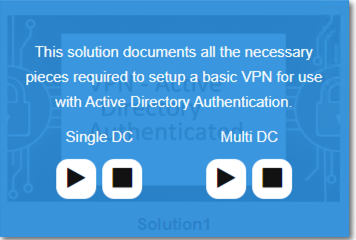
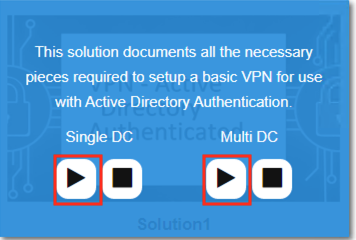
deploy update

Changed region(s): [[0.1236, 0.6417, 0.309, 0.875], [0.5562, 0.6417, 0.7107, 0.875]]

diff --git a/environment/deploy.rst b/environment/deploy.rst
@@ -38,9 +38,16 @@ Host, where you will be able to access the BIG-IP management interfaces (HTTPS, 
 |                                                                                                      |
 |    ..note::  Wait 15 seconds and the screen should refresh with the status of the automations        |
 |              deployment                                                                              |
-|                                                                                                      |  
++------------------------------------------------------------------------------------------------------+        
+|   |image19|                                                                                          |
++------------------------------------------------------------------------------------------------------+
+
++------------------------------------------------------------------------------------------------------+                                                                                                     |  
 | 5. The accompanying solution guide will provide details on how to access the application             |
 |    that was just deployed.                                                                           |    
++------------------------------------------------------------------------------------------------------+
+
++------------------------------------------------------------------------------------------------------+
 |                                                                                                      |
 | 6. Once you are done working in that solution return to https://portal.f5lab.local and click         |
 |    the **stop** to delete everything related to that solution                                        |
@@ -48,7 +55,7 @@ Host, where you will be able to access the BIG-IP management interfaces (HTTPS, 
 |    ..note:: Multiple solutions can be deployed at one time.                                          |
 |             The automation will dynamically assign addresses                                         |                                               
 |                                                                                                      |
-|                                                                                                      |
+|  |image20|                                                                                               |
 |                                                                                                      |
 +------------------------------------------------------------------------------------------------------+
 | Note: All work for this lab will be performed exclusively from the provided lab environment.         |
@@ -59,3 +66,5 @@ Host, where you will be able to access the BIG-IP management interfaces (HTTPS, 
 
 .. |image17| image:: media/image017.png
 .. |image18| image:: media/image018.png
+.. |image19| image:: media/image019.png
+.. |image20| image:: media/image020.png
